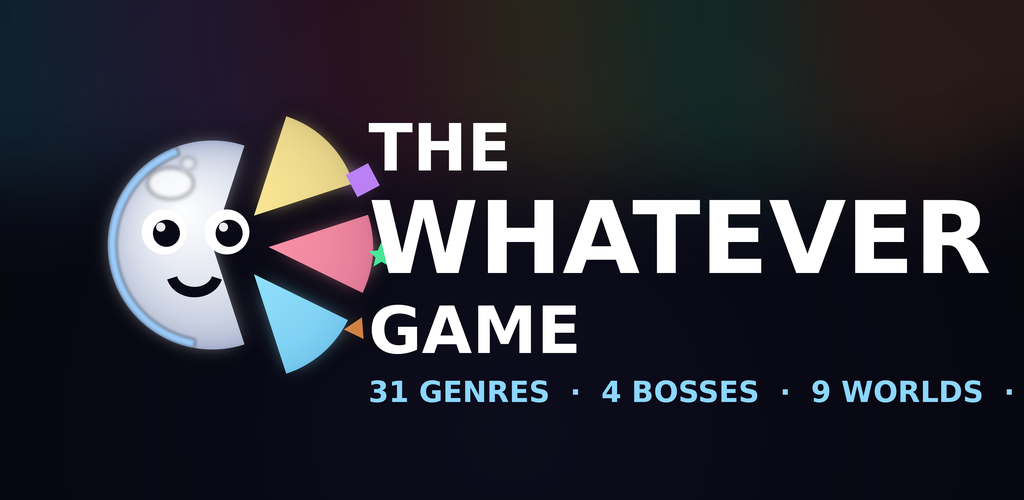
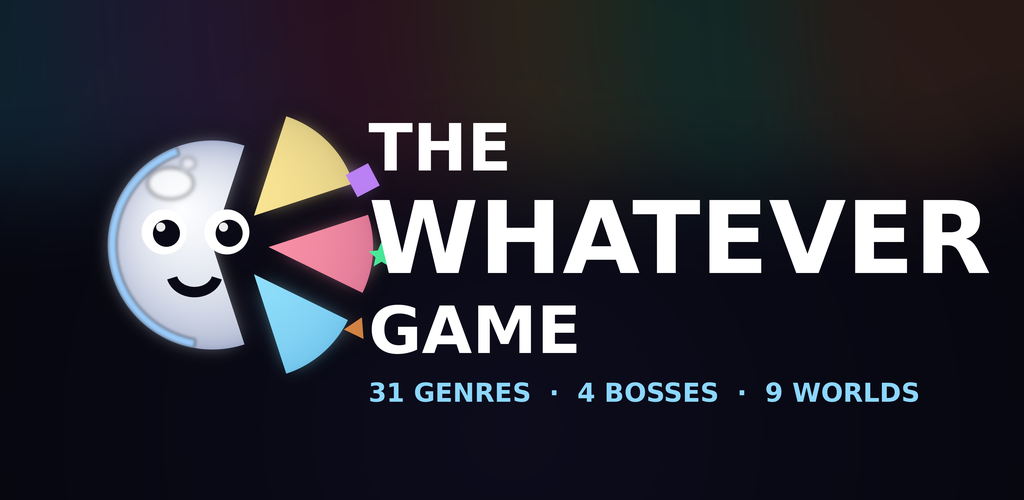
feature graphic: tagline no longer clipped

Changed region(s): [[0.3438, 0.75, 0.9688, 0.81]]

diff --git a/build/make_logo.py b/build/make_logo.py
@@ -233,8 +233,8 @@ def feature(w=1024, h=500):
         d.text((x, int(H*0.22)), 'THE',      font=font(int(H*0.13)), fill=(255,255,255,58))
         d.text((x, int(H*0.36)), 'WHATEVER', font=font(int(H*0.20)), fill=(255,255,255,255))
         d.text((x, int(H*0.585)), 'GAME',    font=font(int(H*0.13)), fill=(255,255,255,58))
-        d.text((x, int(H*0.75)), '31 GENRES  ·  4 BOSSES  ·  9 WORLDS  ·  1 CAT',
-               font=font(int(H*0.058)), fill=(140, 215, 255, 255))
+        d.text((x, int(H*0.755)), '31 GENRES  ·  4 BOSSES  ·  9 WORLDS',
+               font=font(int(H*0.052)), fill=(140, 215, 255, 255))
     except Exception as e:
         print('  (no font, text skipped:', e, ')')
     return img.convert('RGB').resize((w, h), Image.LANCZOS)
